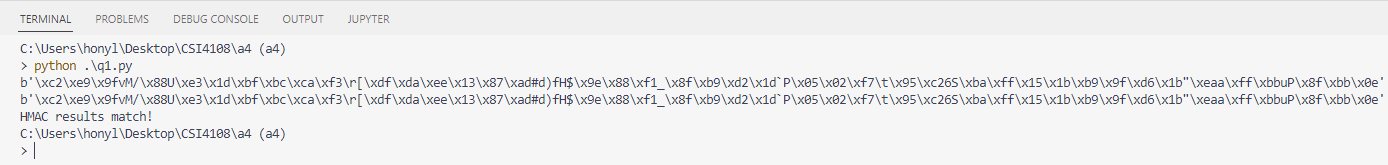
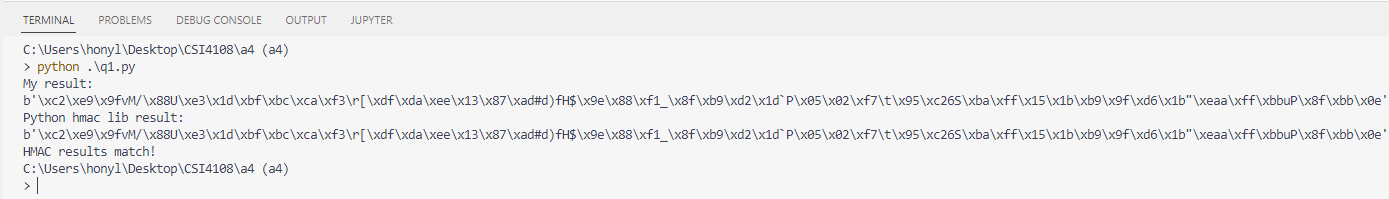
Polish the outputs

Changed region(s): [[0.0, 0.0606, 1.0, 0.8788], [0.0, 0.0, 1.0, 0.0303], [0.0, 0.9091, 0.031, 0.9394]]

diff --git a/a4/q1.py b/a4/q1.py
@@ -38,9 +38,11 @@ def main():
     key = b"This is my simple key."
 
     my_res =  my_hmac(key, message)
+    print("My result:")
     print(my_res.digest())
 
     truth = hmac.HMAC(key, message, digestmod=hashlib.sha512)
+    print("Python hmac lib result:")
     print(truth.digest())
     
     if my_res.digest() == truth.digest():
